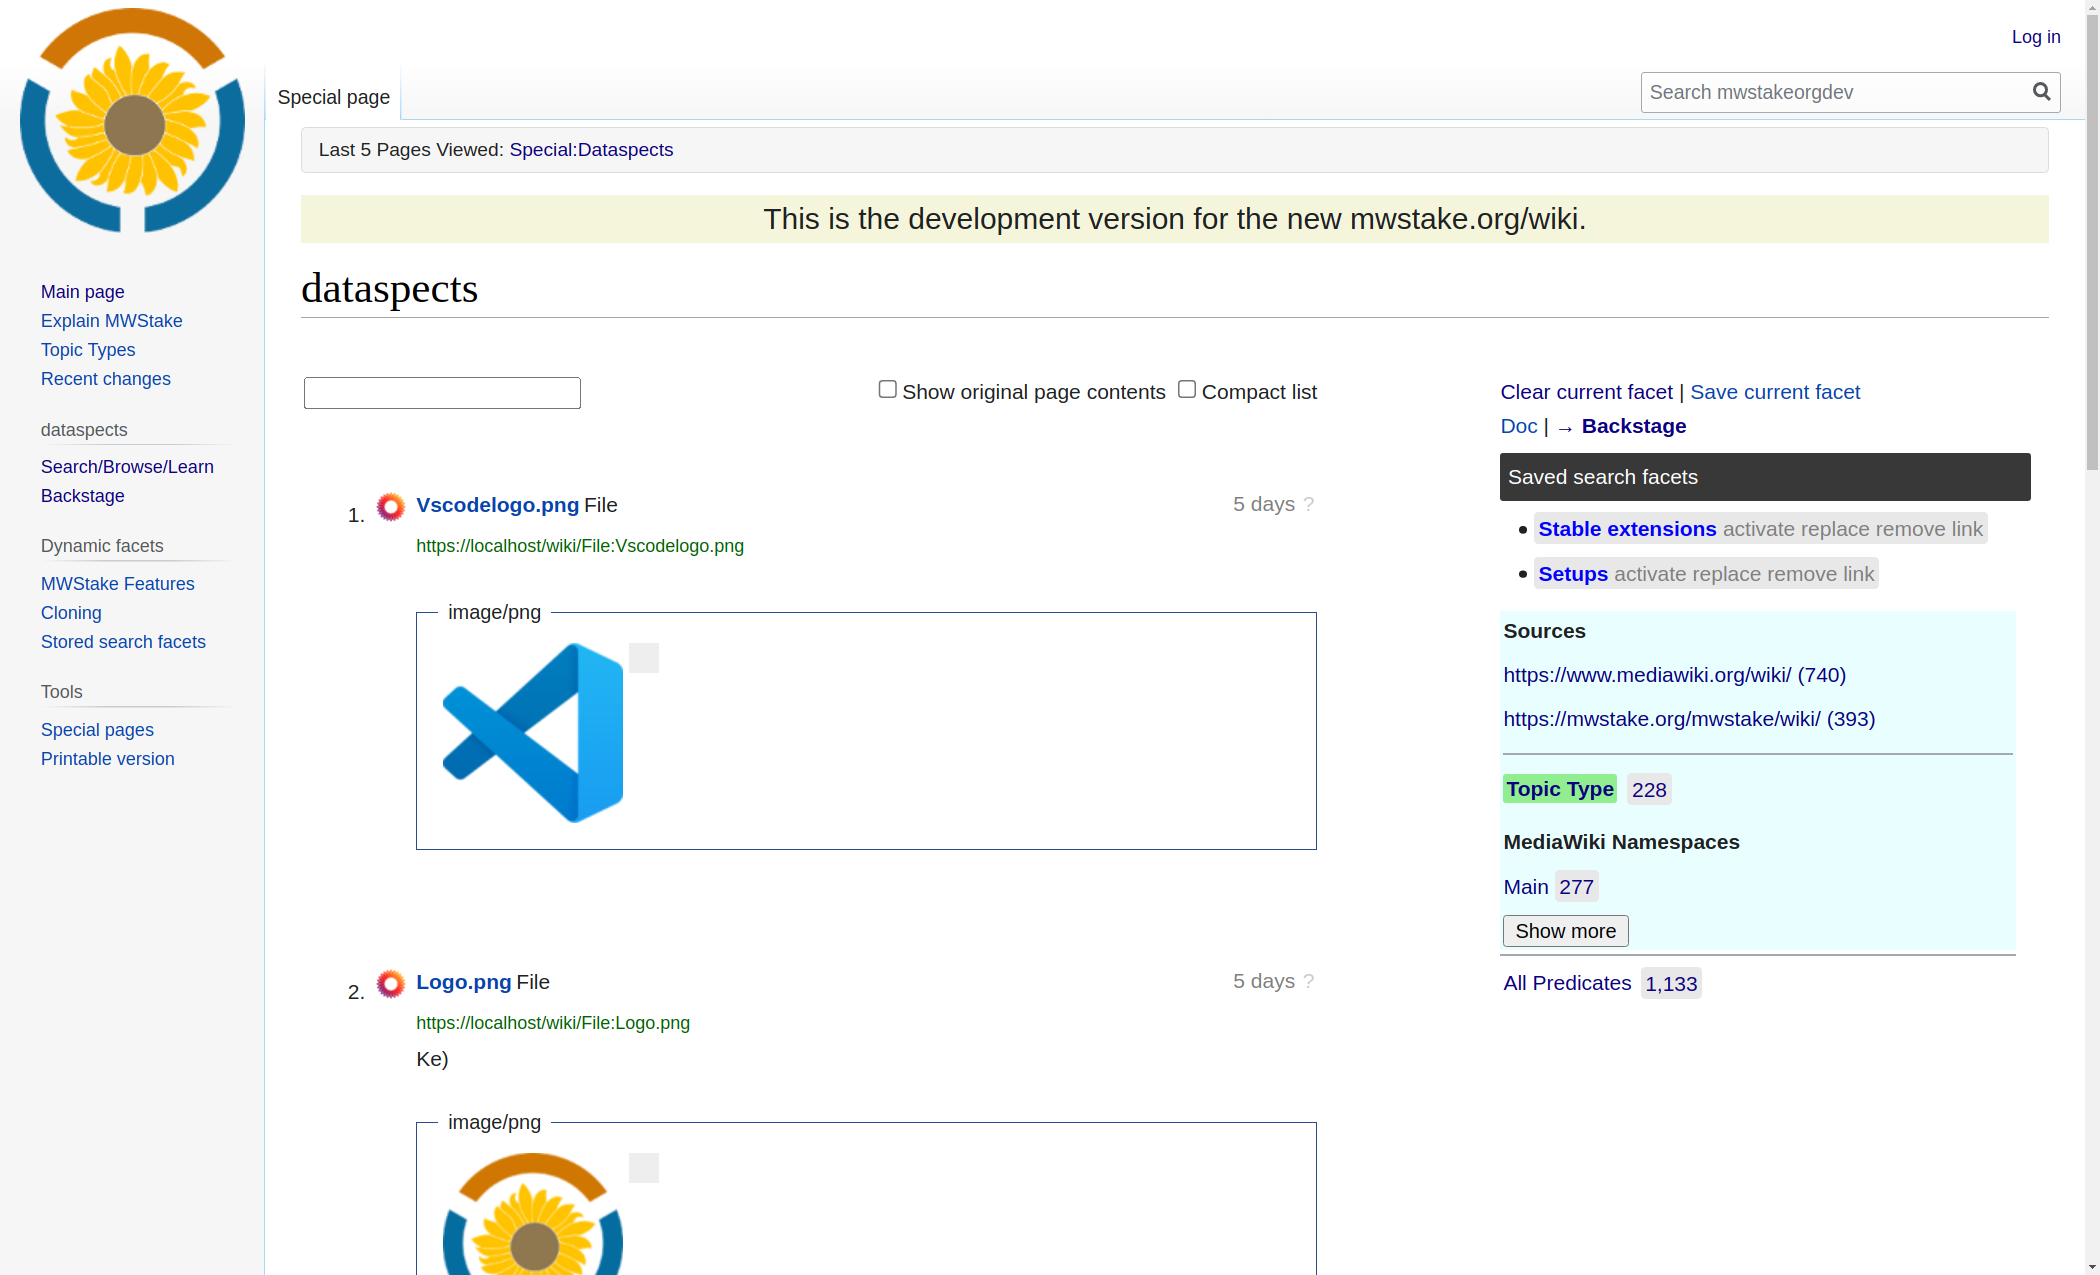
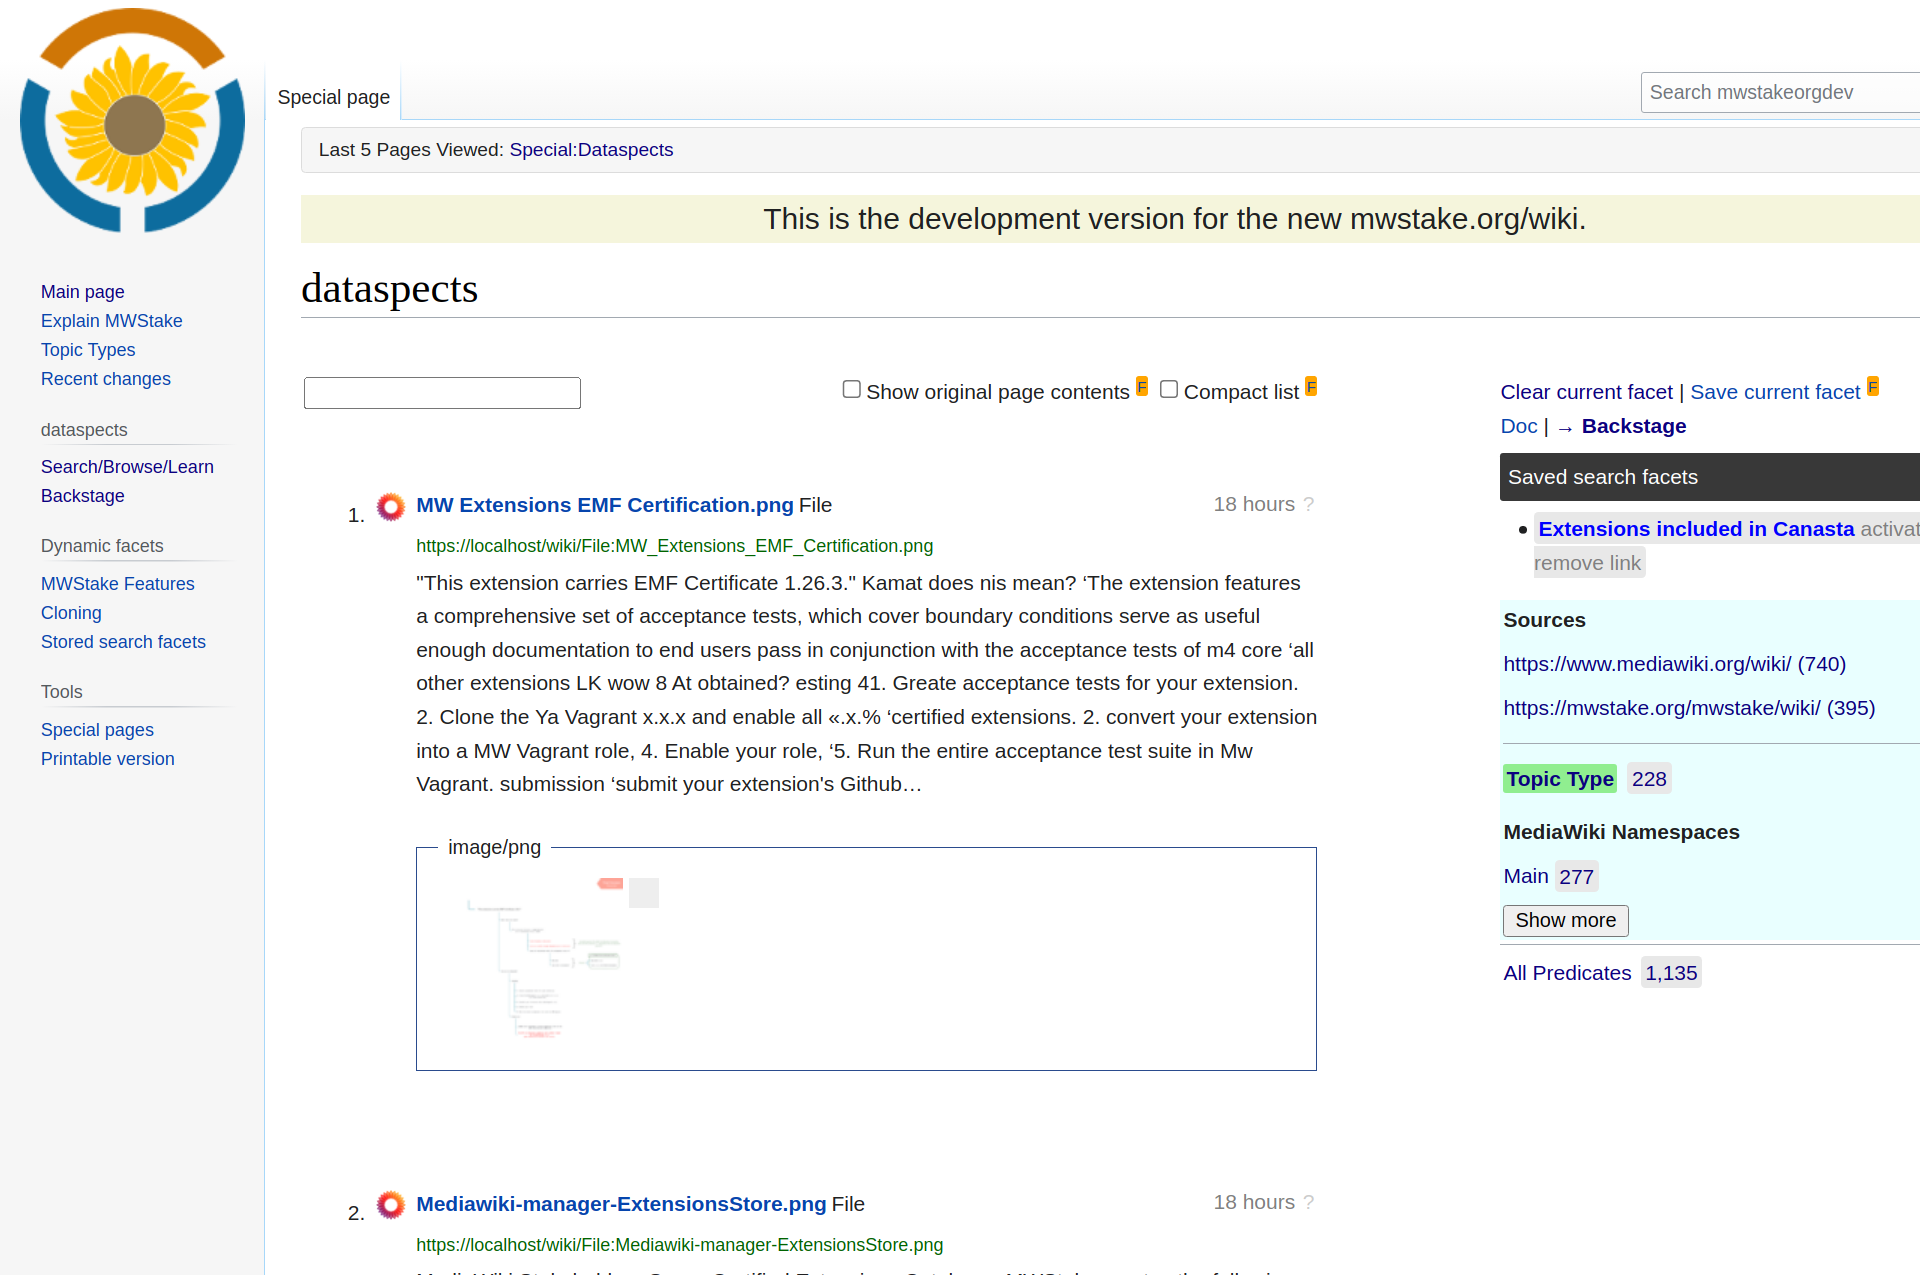
if (results.page == 0 && currentContext.searchFacetName != false)

diff --git a/resources/ext.dataspectsSearch/dataspectsSearch.js b/resources/ext.dataspectsSearch/dataspectsSearch.js
@@ -162,6 +162,18 @@ function handleSpecialDataspects() {
     });
   };
 
+  const handleSearchFacet = (helper, searchFacet) => {
+    if (searchFacet && searchFacet.ds0__instantsearchHelper) {
+      console.log("Loading search facet " + searchFacet.name);
+      helper.setState(
+        searchFacet.ds0__instantsearchHelper.meilisearchHelper.state
+      );
+      setCurrentContextSearchFacetName(searchFacet.name);
+    } else {
+      setCurrentContextSearchFacetName(false);
+    }
+  };
+
   var currentContext = JSON.parse(
     window.localStorage.getItem("currentContext")
   );
@@ -189,15 +201,7 @@ function handleSpecialDataspects() {
            * f URL parameter and get the corresponding facet:
            */
           searchFacet = await checkForFURLParameter();
-          if (searchFacet && searchFacet.ds0__instantsearchHelper) {
-            console.log("Loading search facet " + searchFacet.name);
-            helper.setState(
-              searchFacet.ds0__instantsearchHelper.meilisearchHelper.state
-            );
-            setCurrentContextSearchFacetName(searchFacet.name);
-          } else {
-            setCurrentContextSearchFacetName(false);
-          }
+          handleSearchFacet(helper, searchFacet);
         }
       }
       /**
@@ -375,7 +379,7 @@ function handleSpecialDataspects() {
         /**
          * currentContext.searchFacetName
          */
-        if (currentContext.searchFacetName != false) {
+        if (results.page == 0 && currentContext.searchFacetName != false) {
           /**
            * If the hit matches:
            *                                "hit": {
@@ -451,7 +455,7 @@ function handleSpecialDataspects() {
       e.preventDefault();
       const payload = {
         searchFacetName: $('[data-cy="saveSearchFacetFormHTMLName"]').val(),
-        searchFacetComment: $(
+        searchfaceteppo0__hasEntityBlurb: $(
           '[data-cy="saveSearchFacetFormHTMLComment"]'
         ).val(),
         currentHelper: window.localStorage.getItem("currentContext"),
@@ -464,7 +468,8 @@ function handleSpecialDataspects() {
           action: "dataspectsapi",
           querytype: "putsearchfacet",
           searchfacetname: payload.searchFacetName,
-          searchfacetcomment: payload.searchFacetComment,
+          searchfaceteppo0__hasEntityBlurb:
+            payload.searchfaceteppo0__hasEntityBlurb,
           currenthelper: payload.currentHelper,
         })
         .done(function (response) {

diff --git a/cypress/e2e/read-only/read-only.cy.js b/cypress/e2e/read-only/read-only.cy.js
@@ -12,9 +12,6 @@ describe("dataspects", () => {
       );
     });
   });
-  it("should display DataspectsSpecialDatatables for f=Bryan", () => {
-    cy.visit("/wiki/Special:Dataspects?f=Bryan");
-  });
 });
 
 describe("dataspects", () => {
@@ -23,39 +20,6 @@ describe("dataspects", () => {
     cy.fixture("query-hits-combinations").then((scenario) => {
       cy.typeIntoTextInput("#searchInput", scenario[0].query);
       cy.get("div.special-query").click();
-      cy.get('div.hit[data-cy="' + scenario[0].hitIdInTop5 + '"]').should(
-        "be.visible"
-      );
-    });
-  });
-
-  it("should search by the 'f' URL parameter", () => {
-    cy.fixture("query-hits-combinations").then((scenario) => {
-      cy.visit("/wiki/Special:Dataspects?f=" + scenario[2].searchFacetName);
-      cy.get('div.hit[data-cy="' + scenario[2].hitIdInTop5 + '"]').should(
-        "be.visible"
-      );
-    });
-  });
-
-  it("should show the saved search facets", () => {
-    // cy.mediawiki_login(login);
-    cy.visit("/wiki/Special:Dataspects");
-    cy.get('[data-cy="showSavedSearchFacetsButton"]').click();
-    cy.takeScreenshot("saved-search-facets");
-    cy.get("li.savedSearchFacet a").first().click();
-  });
-
-  it("should find 'backup' and then 'About cloning' by search facet", () => {
-    cy.visit("/wiki/Special:Dataspects");
-    cy.fixture("query-hits-combinations").then((scenario) => {
-      cy.typeIntoTextInput("input.ais-SearchBox-input", scenario[1].query);
-      cy.get('div.hit[data-cy="' + scenario[1].hitIdInTop5 + '"]').should(
-        "be.visible"
-      );
-      cy.get('div[data-cy="searchFacetControl"]')
-        .contains('a[data-cy="searchFacetControlName"]', scenario[0].query)
-        .click();
       cy.get('div.hit[data-cy="' + scenario[0].hitIdInTop5 + '"]').should(
         "be.visible"
       );

diff --git a/cypress/e2e/read-only/search-facets.cy.js b/cypress/e2e/read-only/search-facets.cy.js
@@ -1,0 +1,38 @@
+let login = ["lex", "globi2000globi"];
+
+import queryHitsCombinations from "../../fixtures/query-hits-combinations.json";
+
+describe("dataspects Search Facets", () => {
+  it.only("should load a facet by URL GET parameter 'f'", () => {
+    cy.fixture("query-hits-combinations").then((scenario) => {
+      cy.visit("/wiki/Special:Dataspects?f=" + scenario[2].searchFacetName);
+      cy.get('div.hit[data-cy="' + scenario[2].hitIdInTop5 + '"]').should(
+        "be.visible"
+      );
+    });
+  });
+
+  it("should show the saved search facets", () => {
+    // cy.mediawiki_login(login);
+    cy.visit("/wiki/Special:Dataspects");
+    cy.get('[data-cy="showSavedSearchFacetsButton"]').click();
+    cy.takeScreenshot("saved-search-facets");
+    cy.get("li.savedSearchFacet a").first().click();
+  });
+
+  it("should find 'backup' and then 'About cloning' by search facet", () => {
+    cy.visit("/wiki/Special:Dataspects");
+    cy.fixture("query-hits-combinations").then((scenario) => {
+      cy.typeIntoTextInput("input.ais-SearchBox-input", scenario[1].query);
+      cy.get('div.hit[data-cy="' + scenario[1].hitIdInTop5 + '"]').should(
+        "be.visible"
+      );
+      cy.get('div[data-cy="searchFacetControl"]')
+        .contains('a[data-cy="searchFacetControlName"]', scenario[0].query)
+        .click();
+      cy.get('div.hit[data-cy="' + scenario[0].hitIdInTop5 + '"]').should(
+        "be.visible"
+      );
+    });
+  });
+});

diff --git a/cypress.config.js b/cypress.config.js
@@ -10,5 +10,5 @@ module.exports = {
     viewportWidth: 1400,
     viewportHeight: 850,
   },
-  retries: 3,
+  retries: 1,
 };

diff --git a/src/DataspectsSQLite3.php b/src/DataspectsSQLite3.php
@@ -31,17 +31,17 @@ class DataspectsSQLite3 extends \SQLite3 {
         }
         $this->open($this->db_file);
         if(chmod($this->db_file, $this->perms)) {
-            $this->exec("CREATE TABLE IF NOT EXISTS facets(id INTEGER PRIMARY KEY AUTOINCREMENT, name TEXT UNIQUE, comment TEXT, ds0instantsearchHelper TEXT);");
+            $this->exec("CREATE TABLE IF NOT EXISTS facets(id INTEGER PRIMARY KEY AUTOINCREMENT, name TEXT UNIQUE, ds0instantsearchHelper TEXT);");
             return true;
         }
         return false;
     }
 
-    public function putSearchFacet($name, $comment, $currentHelper) { // FIXME: SQL injection safe?
+    public function putSearchFacet($name, $currentHelper) { // FIXME: SQL injection safe?
         if(!$this->openDB()) {
             return false;
         }
-        $result = $this->exec("INSERT INTO facets(name, comment, ds0instantsearchHelper) VALUES('$name', '$comment', '$currentHelper');");
+        $result = $this->exec("INSERT INTO facets(name, ds0instantsearchHelper) VALUES('$name', '$currentHelper');");
         wfDebug("### $result");
         return $result;
     }
@@ -61,7 +61,6 @@ class DataspectsSQLite3 extends \SQLite3 {
         while ($row = $results->fetchArray()) {    
             $arr[] = [
                 "name" => $row["name"],
-                "comment" => $row["comment"],
                 "ds0__instantsearchHelper" => json_decode($row["ds0instantsearchHelper"], true)
             ];
 		}
@@ -77,7 +76,6 @@ class DataspectsSQLite3 extends \SQLite3 {
         while ($row = $results->fetchArray()) {    
             $arr[] = [
                 "name" => $row["name"],
-                "comment" => $row["comment"],
                 "ds0__instantsearchHelper" => json_decode($row["ds0instantsearchHelper"], true)
             ];
 		}

diff --git a/src/DSNeo4j.php b/src/DSNeo4j.php
@@ -30,6 +30,7 @@ class DSNeo4j {
     $query = [
       "query" => '
         MATCH     (n:MediaWikiPage)
+        WHERE     n.ds0__usedInPackageAndOrFarm = "canasta"
         RETURN    n.name AS name,
                   n.eppo0__hasEntityTitle AS eppo0__hasEntityTitle,
                   n.eppo0__hasEntityURL AS eppo0__hasEntityURL
@@ -88,21 +89,22 @@ class DSNeo4j {
     return $results;
   }
 
-  public function addSearchFacet($name) {
+  public function addSearchFacet($name, $eppo0__hasEntityBlurb) {
     $queries = [
       [
         "query" => '
             CALL apoc.merge.node(
               [ "SearchFacet" ],
-              { name: $name },  // identProps
-              {},               // props
-              {}                // onMatchProps
+              { name: $name },        // identProps
+              { eppo0__hasEntityBlurb: $eppo0__hasEntityBlurb },  // props
+              { eppo0__hasEntityBlurb: $eppo0__hasEntityBlurb }   // onMatchProps
             )
             YIELD node
             RETURN node
         ',
         "params" => [
-          "name" => $name
+          "name" => $name,
+          "eppo0__hasEntityBlurb" => $eppo0__hasEntityBlurb
         ]
       ]
     ];

diff --git a/includes/api/DataspectsAPI.php b/includes/api/DataspectsAPI.php
@@ -30,8 +30,8 @@ class DataspectsAPI extends ApiBase {
 				if(in_array("writeapi", $user->getRights())){
 					try {
 						$this->loadBackends();
-						$result = $this->sqlite3->putSearchFacet($params['searchfacetname'], $params['searchfacetcomment'], $params['currenthelper']);
-						$this->dsNeo4j->addSearchFacet($params['searchfacetname'], $params['searchfacetcomment']);
+						$result = $this->sqlite3->putSearchFacet($params['searchfacetname'], $params['currenthelper']);
+						$this->dsNeo4j->addSearchFacet($params['searchfacetname'], $params['searchfaceteppo0__hasEntityBlurb']);
 						$this->getResult()->addValue(null, "data", [ 'searchfacetname' => $params['searchfacetname'], 'result' => $result ] ); //FIXME: handle $result
 					} catch (Exception $e) {
 						wfDebug("### DataspectsAPI error: ".$e);
@@ -206,7 +206,7 @@ class DataspectsAPI extends ApiBase {
 			'firstxcharacters' => null,
 			'property' => null,
 			'searchfacetname' => null,
-			'searchfacetcomment' => null,
+			'searchfaceteppo0__hasEntityBlurb' => null,
 			'currenthelper' => null,
 			"querystring" => null
         ];

diff --git a/tests/phpunit/unit/DataspectsTest.php b/tests/phpunit/unit/DataspectsTest.php
@@ -139,9 +139,9 @@ class DataspectsTest extends \MediaWikiUnitTestCase {
 
 	public function testSaveAndRetrieveSearchFacetsToFromNeo4j() {
 		// $this->markTestSkipped();
-		echo $this->neo4jClient->addSearchFacet("Test search facet");
-		echo $this->neo4jClient->addSearchFacet("Search facet for test");
-		echo $this->neo4jClient->addSearchFacet("Search for me");
+		echo $this->neo4jClient->addSearchFacet("Test search facet", "Comment");
+		echo $this->neo4jClient->addSearchFacet("Search facet for test", "Comment");
+		echo $this->neo4jClient->addSearchFacet("Search for me", "Comment");
 		print_r($this->neo4jClient->typeahead("for est"));
 	}
 
